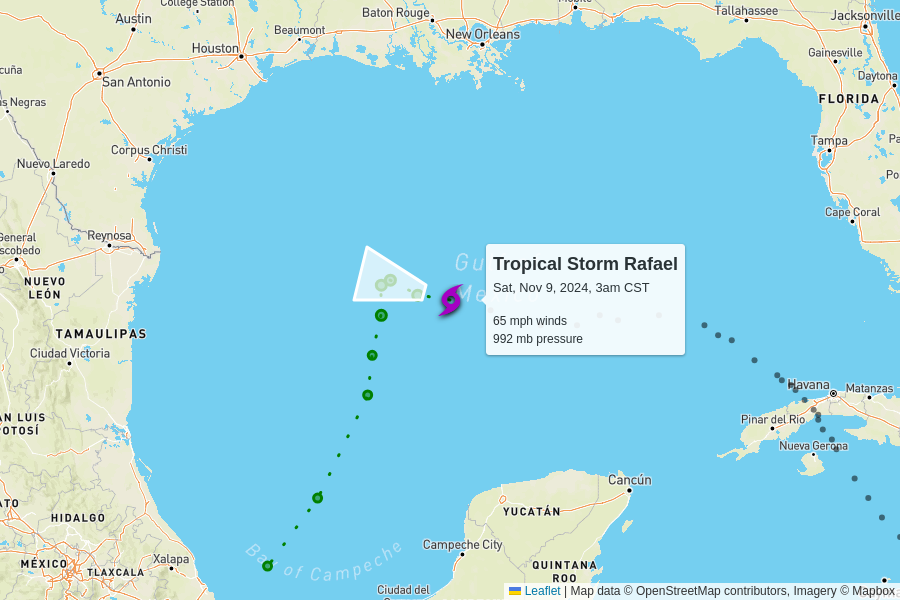
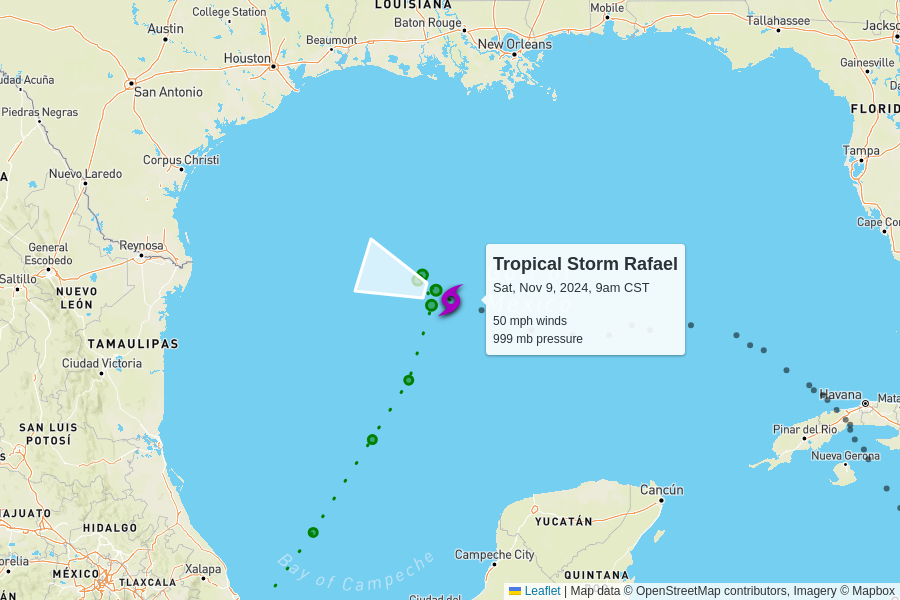
automatic update

diff --git a/docs/index.html b/docs/index.html
@@ -102,7 +102,7 @@
         <td colspan="6" class="storm category-0" >
           <h2>
             Tropical Storm Rafael
-            <p class="updated">last updated <span data-time>2024-11-09T09:00:00.000Z</span></p>
+            <p class="updated">last updated <span data-time>2024-11-09T15:00:00.000Z</span></p>
           </h2>
         </td>
       </tr>
@@ -117,12 +117,12 @@
       </tr>
       <tr>
         <td class="spacer"></td>
-        <td>65 mph<br>-5 mph since last update</td>
-        <td>992 mb<br>+3 mb since last update</td>
+        <td>50 mph<br>-15 mph since last update</td>
+        <td>999 mb<br>+7 mb since last update</td>
         <td>
           6 mph to the west-northwest
           <br/>
-          <span style="display: inline-block; font-size: 1.5em; transform: rotate(285deg);">↑</span>
+          <span style="display: inline-block; font-size: 1.5em; transform: rotate(290deg);">↑</span>
         </td>
         <td><a href="https://raw.githubusercontent.com/mgwalker/atlantic-hurricanes/main/data/csv/AL182024.csv">AL182024.csv</a></td>
         <td><a href="https://www.nhc.noaa.gov/archive/2024/RAFAEL.shtml?">NHC advisories</a></td>
